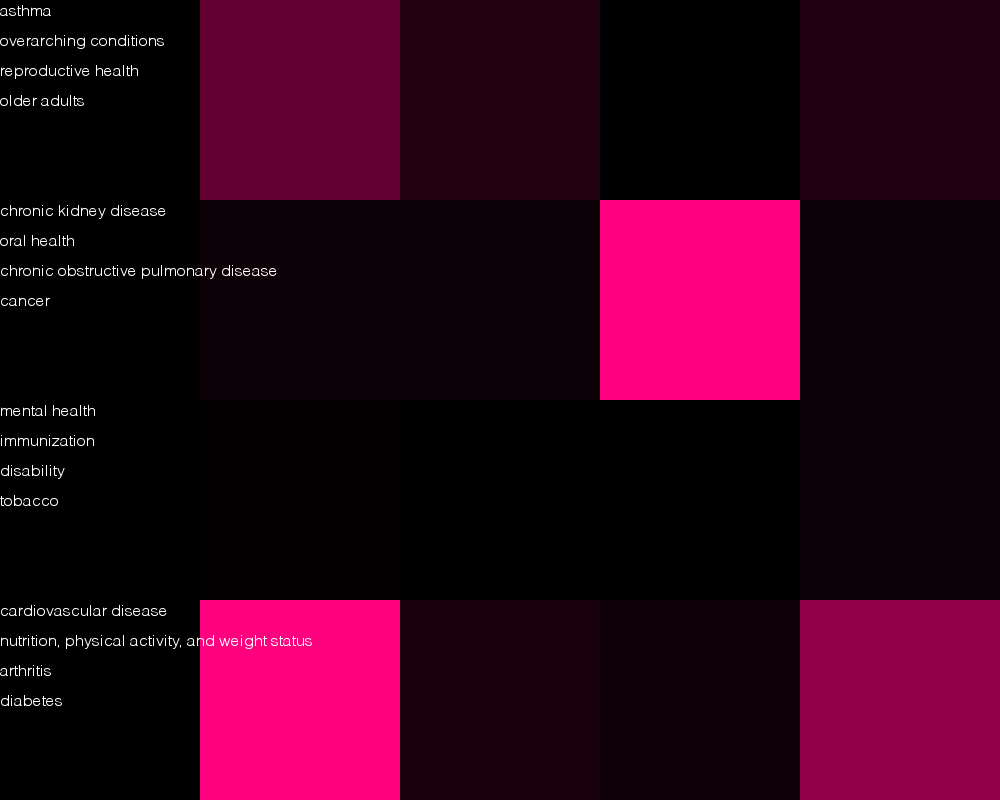
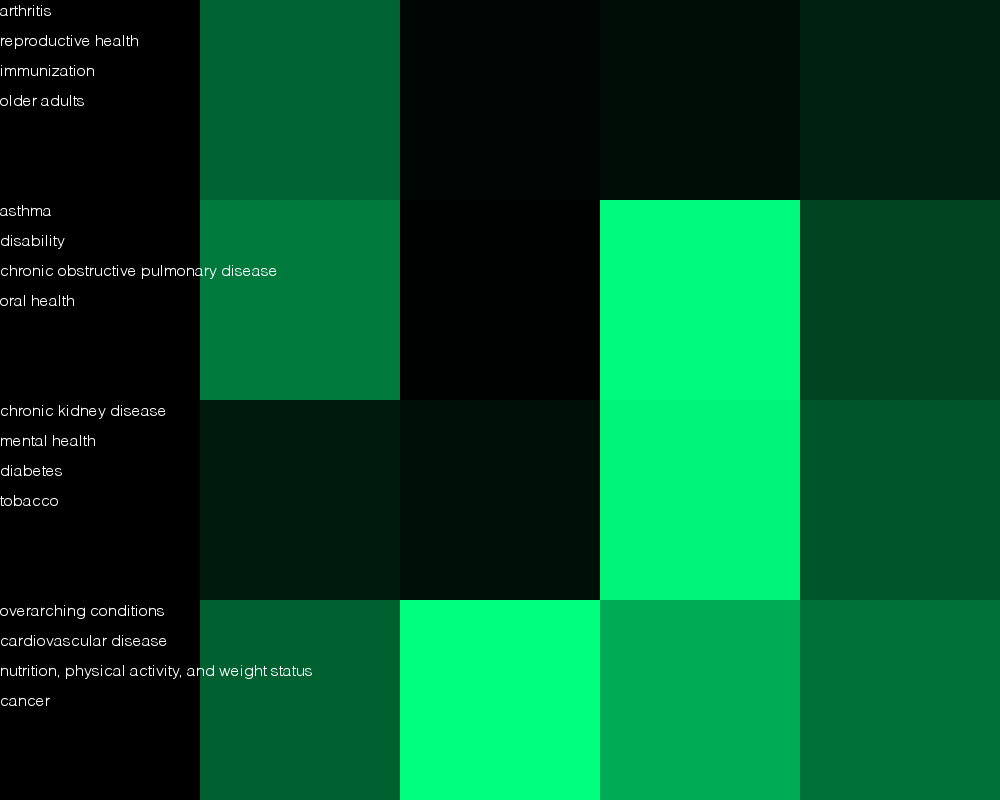
Another update

diff --git a/htmlthing.html b/htmlthing.html
@@ -11,8 +11,14 @@
 	<center> <img src="wordcloud.png" alt="Word Cloud" align="middle"> <center>
 </p>
 
+<hr width="50%">
+
+<h1>
+	<center> <font face="Helvetica" color="#E0DFDE"> ColorPlot </font> <center>
+</h1>
+
 <p>
-	<center> <img src="colortest.png" alt="Word Cloud" align="middle"> <center>
+	<center> <img src="colorplot.png" alt="Word Cloud" align="middle"> <center>
 </p>
 
 </body>

diff --git a/Definitions.py b/Definitions.py
@@ -2,7 +2,6 @@ import csv
 import os
 #from scipy.misc import imread
 from wordcloud import WordCloud, STOPWORDS
-import matplotlib.pyplot as plt
 import random
 from PIL import Image, ImageFont, ImageDraw
 
@@ -55,7 +54,6 @@ def wordcloud(wordSource):
     wordcloud.to_file("wordcloud.png")
 
     #cloud1_coloring = imread(os.path.join(d, "CloudColor.png")).read()
-
 
 #converts numbers to range of 0-255 for rgb
 def convert(oldMin, oldMax, oldValue):
@@ -138,7 +136,7 @@ def colorize(domain, catagories):
         bufferx = piCount * 200
         for x in range(bufferx,bufferx + 200):
             for y in range(buffery, buffery + 200):
-                newImageData[x,y] = (local[i], 0, int(local[i]/2))
+                newImageData[x,y] = (0, int(local[i]), int(local[i]/2))
 
         draw = ImageDraw.Draw(newimage)
         # font = ImageFont.truetype(<font-file>, <font-size>)
@@ -154,10 +152,7 @@ def colorize(domain, catagories):
             buffery += 200
             piCount = 1
             textHeight += 110
-
-
-
-    newimage.save("colortest.png")
+    newimage.save("colorplot.png")
 
 
 def printDict(Dict):

diff --git a/First.py b/First.py
@@ -28,7 +28,7 @@ def main():
 
 
     dfi.wordcloud(catagory)
-    dfi.colorize("ca", catagory)
+    dfi.colorize("al", catagory)
 
     #opens html file
     webbrowser.open("htmlthing.html")
